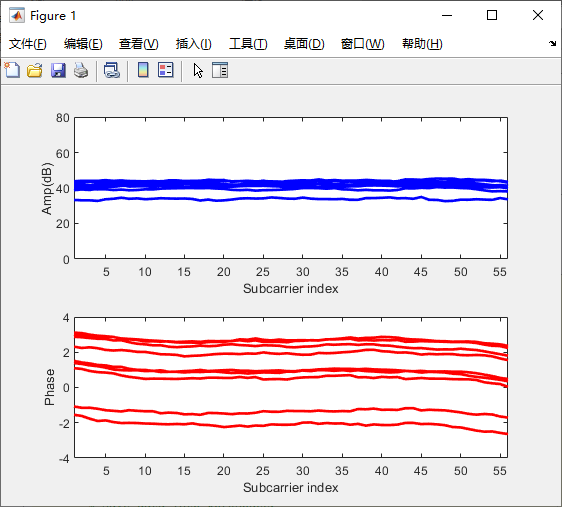
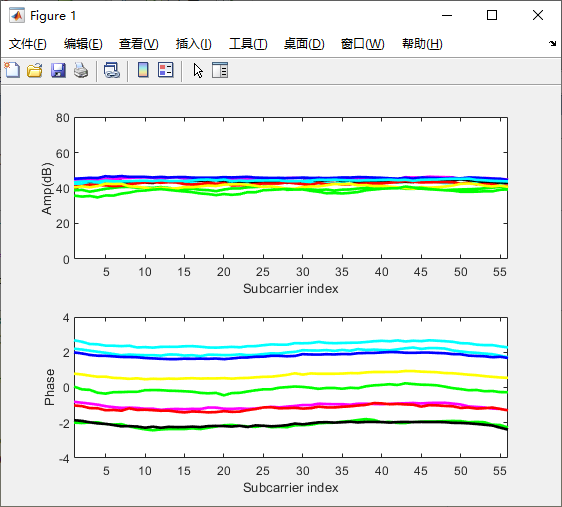
color differs between lines

diff --git a/matlab/read_bf_socket.m b/matlab/read_bf_socket.m
@@ -22,6 +22,7 @@ while 1
 %% Initialize variables
     cnter = 1;
     VER = '';
+    colorArr = [ "b", "c","g","k", "m","r","y"];
 
 %% Process all entries in socket
     % Need 3 bytes -- 2 byte size field and 1 byte code
@@ -67,8 +68,11 @@ while 1
         %This plot will show graphics about recent 1 csi packets
         for nRx = 1:msg.nr
             for nTx = 1:msg.nc
-                set(lineAmp((nRx-1)*msg.nc+nTx),'XData', [1:msg.num_tones], 'YData', db(abs(msg.csi(nRx,nTx,:))), 'color', 'b', 'linestyle', '-','linewidth', 2);
-                set(linePhase((nRx-1)*msg.nc+nTx),'XData', [1:msg.num_tones], 'YData', angle(msg.csi(nRx,nTx,:)), 'color', 'r', 'linestyle', '-','linewidth', 2);
+                sizeArrStruct = size(colorArr);
+                sizeArr = sizeArrStruct(2);
+                index = (nRx-1)*msg.nc + nTx;
+                set(lineAmp(index),'XData', [1:msg.num_tones], 'YData', db(abs(msg.csi(nRx,nTx,:))), 'color', colorArr(mod(index,sizeArr)+1), 'linestyle', '-','linewidth', 2);
+                set(linePhase(index),'XData', [1:msg.num_tones], 'YData', angle(msg.csi(nRx,nTx,:)), 'color', colorArr(mod(index,sizeArr)+1), 'linestyle', '-','linewidth', 2);
             end
         end
         drawnow;
